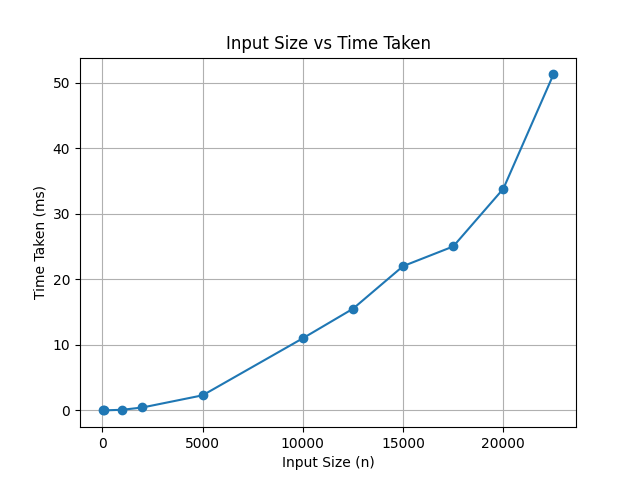
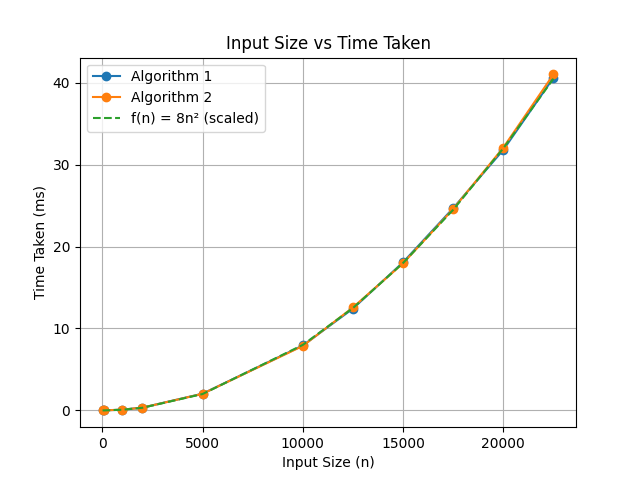
lab2

diff --git a/Lab 2/src/BinarySearch.java b/Lab 2/src/BinarySearch.java
@@ -1,17 +1,19 @@
 import java.util.Arrays;
 import java.util.Random;
 
-public class LinearSearch {
-    public static int LS(int[] arr, int target,int i){
-        if (i == arr.length)return -1;
-        if (arr[i] == target)return i;
-        else return LS(arr,target,i+1);
+public class BinarySearch {
+    public static int BS(int[] arr,int t, int s,int e){
+        if (e<s)return -1;
+        int m = s + (e-s)/2;
+        if (arr[m] == t)return m;
+        else if (arr[m]<t)return BS(arr,t,m+1,e);
+        else return BS(arr,t,s,m-1);
     }
 
-    public static double time(int[] arr,int target){
+    public static double time(int[] arr, int t){
         long t1 = System.nanoTime();
 
-        int ans = LS(arr,target, 0);
+        BS(arr,t, 0, arr.length-1);
 
         long t2 = System.nanoTime();
 
@@ -20,14 +22,14 @@ public class LinearSearch {
 
     public static void main(String[] args) {
         Random rd = new Random();
-        int[] values = {10,100,1000,5000,10000,15000,20000};
+        int[] values = {10,100,1000,10000,100000,1000000,10000000};
         for (int n: values) {
             double avg = 0;
             int[] arr = new int[n];
             for (int j = 0; j < n; j++) arr[j] = rd.nextInt();
             Arrays.sort(arr);
             for (int i = 0; i < 1000; i++) {
-                avg += time(arr, arr[0]);
+                avg += time(arr, rd.nextInt());
             }
 //            System.out.println("Time taken = " + avg / 1000 + " ms for n = " + n);
             System.out.print(avg/1000+",");

diff --git a/Lab 1/src/Duplicate.java b/Lab 1/src/Duplicate.java
@@ -1,17 +1,36 @@
 public class Duplicate {
     public static int dup(int[] arr){
-        int k = 1;
-        for (int i = 0; i < arr.length; i++) {
-            for (int j = 0; j < arr.length-k; j++) {
-                if (arr[j] == arr[j+k])return arr[j];
+        int dup = -1;
+        int index = arr.length;
+        for (int i = 0; i < index; i++) {
+            for (int j = i+1; j < index; j++) {
+                if (arr[i] == arr[j]){
+                    dup = arr[i];
+                    index = j;
+                    break;
+                }
             }
-            k++;
         }
-        return -1;
+        return dup;
+    }
+    public static int dup2(int[] arr){
+        int dup = -1;
+        int n = arr.length / 2;
+        for (int i = 0; i < n; i++) {
+            int t = arr[n-i];
+            for (int j = 0; j < n-i; j++) {
+                if (t == arr[j]){
+                    dup = t;
+                    break;
+                }
+            }
+        }
+        return dup;
     }
 
     public static void main(String[] args) {
-        int[] arr = {1,2,3,4,4,3,2,1};
+        int[] arr = {1,2,3,1,3,1,3,4,4};
         System.out.println(dup(arr));
+        System.out.println(dup2(arr));
     }
 }

diff --git a/Lab 1/src/BubbleSort.java b/Lab 1/src/BubbleSort.java
@@ -1,3 +1,4 @@
+import java.util.Arrays;
 import java.util.Random;
 
 public class BubbleSort {
@@ -20,16 +21,18 @@ public class BubbleSort {
 
     public static void main(String[] args) {
         Random rd = new Random();
-        double avg = 0;
-        int n = 25000;
-        int[] arr = new int[n];
-
-        for (int i = 0; i < 1000; i++) {
+        int[] values = {10,100,1000,2000,5000,10000,12500,15000,17500,20000,22500};
+        for (int n: values) {
+            double avg = 0;
+            int[] arr = new int[n];
             for (int j = 0; j < n; j++) arr[j] = rd.nextInt();
-            avg += time(arr);
+            Arrays.sort(arr);
+            for (int i = 0; i < 1000; i++) {
+                avg += time(arr);
+            }
+//            System.out.println("Time taken = " + avg / 1000 + " ms for n = " + n);
+            System.out.print(avg/1000 + ",");
         }
-
-        System.out.println("Time taken = " + avg / 1000 + " ms for n = " + n);
     }
 
     private static void swapIndex(int[] arr, int i, int j) {

diff --git a/Lab 2/src/InsertionSort.java b/Lab 2/src/InsertionSort.java
@@ -1,0 +1,39 @@
+import java.util.Arrays;
+import java.util.Random;
+
+public class InsertionSort {
+    public static void IS(int[] arr){
+        for (int i = 1; i < arr.length; i++) {
+            int t = arr[i];
+            int j = i-1;
+            while (j >= 0 && arr[j]>t){
+                arr[j+1] = arr[j];
+                j--;
+            }
+            arr[j+1] = t;
+        }
+    }
+    public static double time(int[] arr){
+        long t1 = System.nanoTime();
+
+        IS(arr);
+
+        long t2 = System.nanoTime();
+
+        return (t2-t1)/1_000_000.0;
+    }
+
+    public static void main(String[] args) {
+        Random rd = new Random();
+        double avg = 0;
+        int n = 22500;
+        int[] arr = new int[n];
+        for (int j = 0; j < n; j++) arr[j] = rd.nextInt();
+        time(arr);
+        for (int i = 0; i < 1000; i++) {
+            avg += time(arr);
+        }
+
+        System.out.println("Time taken = " + avg / 1000 + " ms for n = " + n);
+    }
+}

diff --git a/Lab 1/src/SelectionSort.java b/Lab 1/src/SelectionSort.java
@@ -1,3 +1,4 @@
+import java.util.Arrays;
 import java.util.Random;
 
 public class SelectionSort {
@@ -33,16 +34,17 @@ public class SelectionSort {
 
     public static void main(String[] args) {
         Random rd = new Random();
-        double avg = 0;
-        int n = 100;
-        int[] arr = new int[n];
-
-
-        for (int i = 0; i < 1000; i++) {
+        int[] values = {10,100,1000,2000,5000,10000,12500,15000,17500,20000,22500};
+        for (int n: values) {
+            double avg = 0;
+            int[] arr = new int[n];
             for (int j = 0; j < n; j++) arr[j] = rd.nextInt();
-            avg += time(arr);
+            Arrays.sort(arr);
+            for (int i = 0; i < 1000; i++) {
+                avg += time(arr);
+            }
+//            System.out.println("Time taken = " + avg / 1000 + " ms for n = " + n);
+            System.out.print(avg/1000 + ",");
         }
-
-        System.out.println("Time taken = " + avg / 1000 + " ms for n = " + n);
     }
 }
